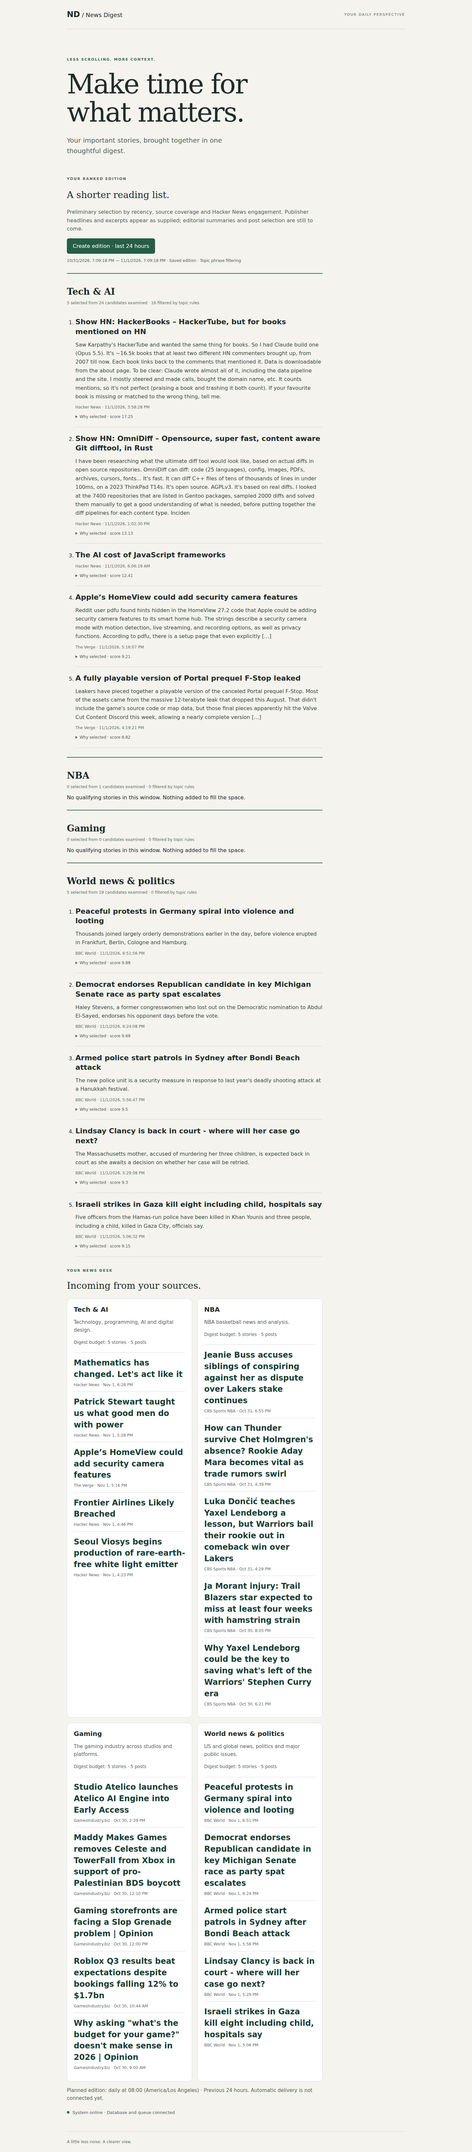
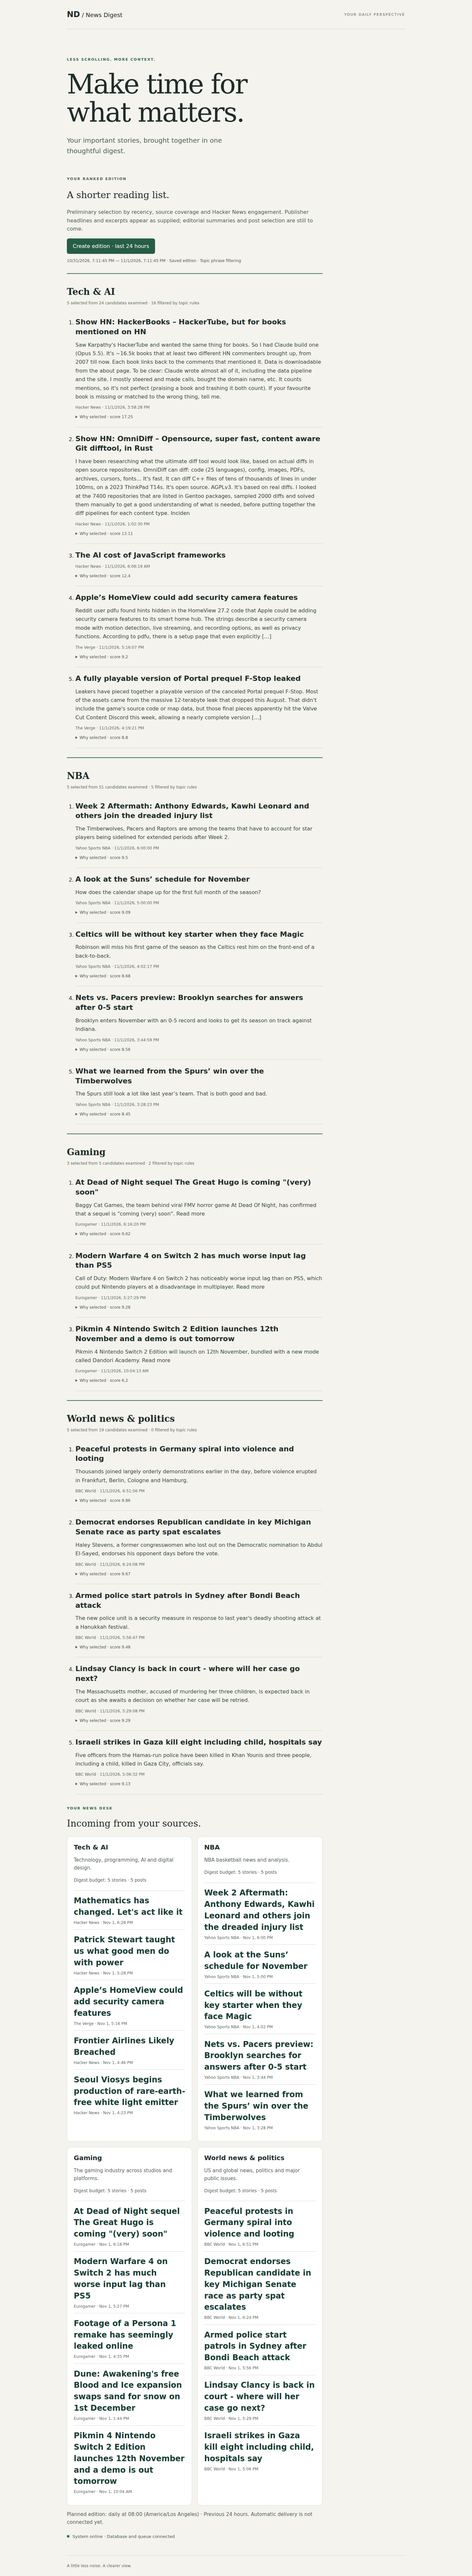
Broaden live NBA and Gaming coverage with publisher feeds

Changed region(s): [[0.125, 0.0, 0.6875, 0.9994]]

diff --git a/apps/api/test/ingestion.test.ts b/apps/api/test/ingestion.test.ts
@@ -8,7 +8,7 @@ import { PostgresContentRepository } from '../src/modules/ingestion/database/con
 import { ingest } from '../src/modules/ingestion/ingest';
 const fixture = (name: string) => readFile(`apps/api/test/fixtures/${name}`, 'utf8');
 test('recorded RSS and Atom normalize real headlines, dates and safe links', async () => {
- for (const name of ['rss.xml', 'atom.xml']) {
+ for (const name of ['rss.xml', 'atom.xml', 'yahoo-nba.xml', 'eurogamer.xml']) {
  const items = parseFeed(await fixture(name));
  assert.equal(items.length, 2); assert.ok(items.every(i => i.title && i.url.startsWith('https://') && Date.parse(i.publishedAt)));
  }

diff --git a/apps/api/scripts/smoke-ingestion.ts b/apps/api/scripts/smoke-ingestion.ts
@@ -1,4 +1,4 @@
-// Explicit live check: at most 4 feed GETs + HN list and 20 stories per pass.
+// Explicit live check: one GET/feed + HN list and 20 stories per pass.
 import { Queue, QueueEvents } from 'bullmq';
 import assert from 'node:assert/strict';
 import { PostgresContentRepository } from '../src/modules/ingestion/database/content.repository';

diff --git a/docs/SOURCES.md b/docs/SOURCES.md
@@ -1,9 +1,9 @@
 # Content source inventory
 
-Checked 2026-11-01, iteration 11. Counts below are actual stored observations
-from the live worker and `/api/content/sources`, not fixture counts. Five sources
-supplied 156 distinct URLs across all four topics. Last successful bounded
-verification: 19:09 UTC; two queued passes preserved the same 156-item total.
+Checked 2026-11-01, iteration 12. Counts below are actual stored observations
+from the live worker and `/api/content/sources`, not fixture counts. Seven sources
+supplied 266 distinct URLs across all four topics. Last successful bounded
+verification: 19:11 UTC; two queued passes preserved the same 266-item total.
 
 | Source | Topic | Status | Stored items | Feed / API |
 | --- | --- | --- | ---: | --- |
@@ -13,7 +13,11 @@ verification: 19:09 UTC; two queued passes preserved the same 156-item total.
 | GamesIndustry.biz | Gaming | live | 60 | https://www.gamesindustry.biz/feed |
 | BBC World | World news & politics | live | 30 | https://feeds.bbci.co.uk/news/world/rss.xml |
 | ESPN NBA RSS | NBA | blocked | 0 | HTTP 202 with empty body; chose CBS without bypass attempts |
-| Yahoo NBA RSS | NBA | not yet tried | 0 | Probe returned XML; no adapter run/storage yet |
+| Yahoo Sports NBA | NBA | live | 50 | https://sports.yahoo.com/nba/rss/ |
+| Eurogamer | Gaming | live | 60 | https://www.eurogamer.net/feed |
+| NBA.com news RSS | NBA | blocked | 0 | HTTP 403 at `/news/rss.xml`; no bypass attempted |
+| GameSpot mashup RSS | Gaming | blocked | 0 | HTTP 403 at `/feeds/mashup/`; no bypass attempted |
+| IGN articles XML | Gaming | rejected | 0 | `/articles?format=xml` returned malformed XML; not scheduled |
 | Google News RSS | all | not yet tried | 0 | Widen after first digest |
 | xAI x_search via configured gateway | all | not yet tried | 0 | Review documented gateway routing before use |
 | X official oEmbed | all | not yet tried | 0 | Render discovered post URLs |
@@ -55,3 +59,13 @@ lexical screen, not an LLM editorial pass. In the checked 24-hour window it
 rejected 16/24 Tech candidates; NBA had one betting candidate excluded by the
 existing low-value filter, Gaming none. No new external source or LLM calls
 were added by edition generation.
+
+Iteration 12: migration 006 adds Yahoo NBA and Eurogamer to persisted topic
+source configuration and the existing 30-minute worker scheduler. Live queued
+collection stored 50/60 articles respectively; repeat collection added no
+duplicates. Two-item recorded fixtures cover each feed offline (never seeded).
+The checked last-24-hour edition has NBA 51 candidates / 5 selected and Gaming
+5 candidates / 3 selected, versus previously quiet sections. Yahoo includes
+syndicated coverage, fantasy and previews; phrase rules rejected five NBA
+candidates but do not establish newsworthiness. Editorial review and grouping
+syndicated outlets remain necessary. No article-page scraping or LLM calls.

diff --git a/PROGRESS.md b/PROGRESS.md
@@ -85,3 +85,19 @@ about 400 lines, move older entries to `docs/progress-archive/`.
 - `pnpm exec tsx scripts/smoke-ui.ts` passed desktop/mobile/reload/expanded reasons; screenshots updated, mobile inspected.
 - Restarted API/worker; health/topics endpoints healthy. No LLM calls or provider/model changes; no blockers.
 - Next: capped/cached LlmPort editorial review using configured model/provider; broader NBA/Gaming sources.
+
+## 2026-11-01: iteration 12 — recent NBA and Gaming coverage
+- Started clean on main; no leftover work; baseline checks, services, health and existing sources healthy.
+- Added migration 006: Yahoo Sports NBA and Eurogamer feeds, topic source configuration and existing worker scheduling.
+- Stored 110 additional real URLs: Yahoo 50, Eurogamer 60; seven healthy sources now supply 266 items.
+- Last-24-hour edition now selects NBA 5/51 candidates and Gaming 3/5; all four topics populated.
+- Still preliminary: NBA schedule/preview filler demonstrates the remaining editorial-quality gap; documented in RANKING.
+- Added two-entry recorded fixtures per publisher; no fixture data seeded or presented as live.
+- NBA.com/GameSpot returned 403; IGN returned malformed XML; recorded results without bypass attempts.
+- `pnpm migrate` applied 006; repeat clean; `pnpm check` passed types/lint/boundaries and all 14 tests.
+- `pnpm build` passed (existing upstream Zod warnings); `git diff --check` passed.
+- `pnpm exec tsx apps/api/scripts/smoke-ingestion.ts` passed two queued passes: 266 items, no duplicates/errors.
+- `pnpm exec tsx apps/api/scripts/smoke-previews.ts` passed immutable versions/window/relevance checks.
+- `pnpm exec tsx scripts/smoke-ui.ts` passed desktop/mobile/reload with updated screenshots; mobile inspected.
+- API/worker restarted; `/healthz` healthy. No LLM calls/provider/model changes or blockers.
+- Next: bounded cached LlmPort editorial pass; distinguish syndicated coverage when clustering.

diff --git a/docs/RANKING.md b/docs/RANKING.md
@@ -58,3 +58,10 @@ off-topic/promotional examples. They are an initial regression set, not live
 articles, a representative precision estimate, or the required historical
 top-story benchmark. LLM review, event clustering and historical evaluation
 remain unfinished.
+
+Iteration 12 coverage observation: Yahoo NBA and Eurogamer fill the previously
+quiet 24-hour NBA/Gaming sections (5/3 selected). NBA still includes a monthly
+schedule and matchup preview; lexical eligibility plus recency does not equal
+editorial importance. Prioritize the bounded editorial pass before calling
+these snapshots curated digests. Syndicated Yahoo articles also require
+independence-aware clustering before source breadth becomes a strong signal.

diff --git a/TASKS.md b/TASKS.md
@@ -47,6 +47,7 @@ Fix regressions, broken services and stalled sources before starting new work.
   automatically, plus the status page (sources, queues, runs, LLM usage).
   `DigestPublished` event plus notification port with a log/in-app adapter.
 - [ ] Ongoing:
+  - [x] Wider NBA/Gaming publisher coverage: Yahoo NBA + Eurogamer (iteration 12), 110 additional stored URLs.
   - widen sources per topic (Reddit, Bluesky, more publishers)
   - precision tuning
   - UI polish
